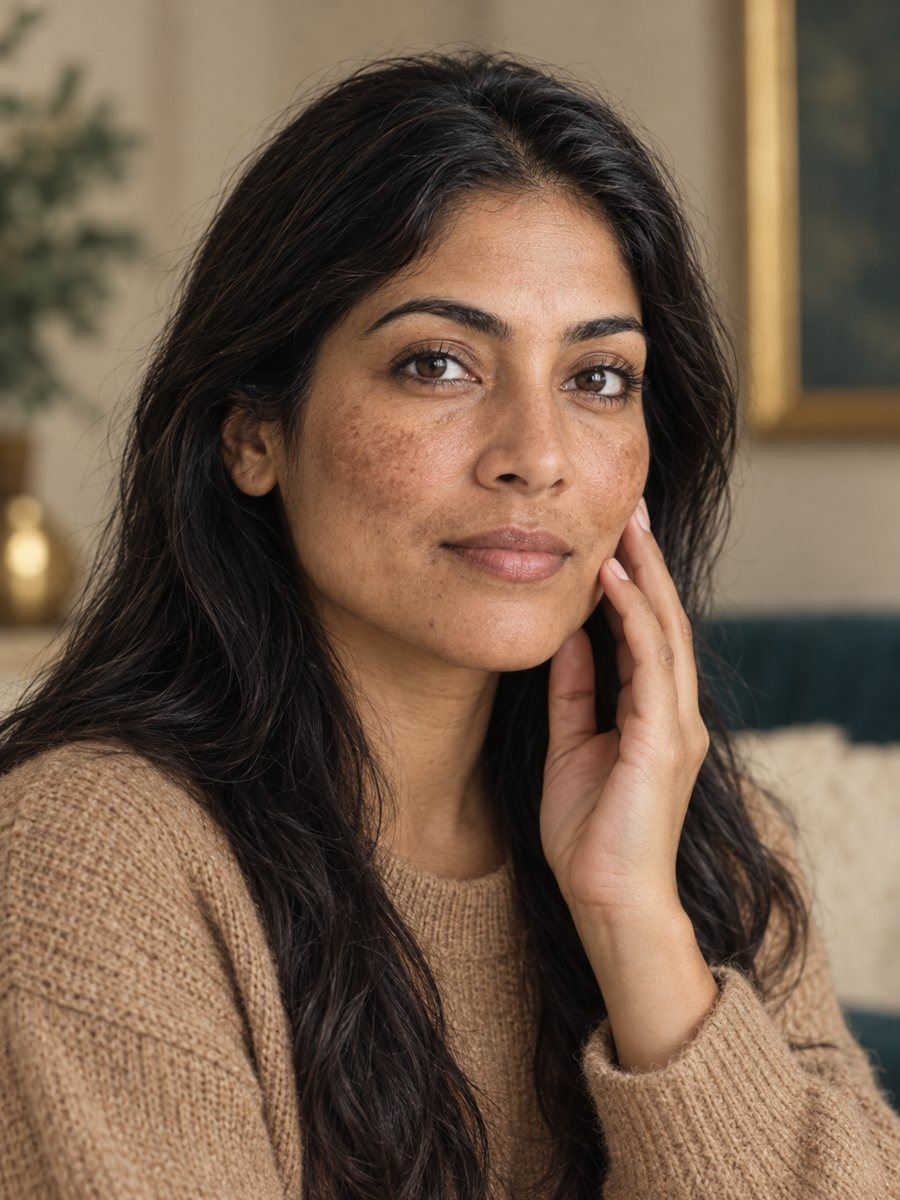
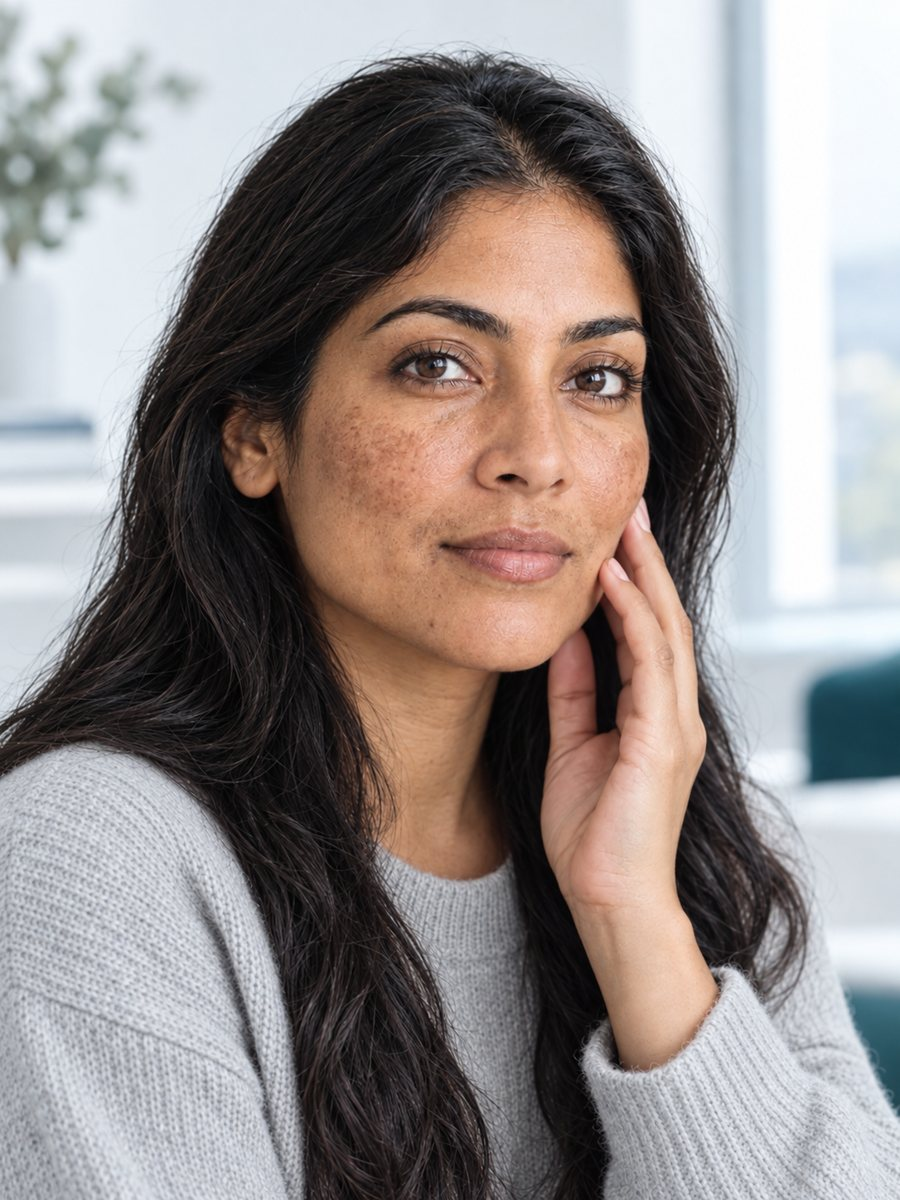
Homepage: clean white and teal palette, light hero, bright white-room photography

diff --git a/home-concern.css b/home-concern.css
@@ -1,3 +1,19 @@
+/* ── Clean palette (homepage, light theme) ───────────── */
+:root:not([data-theme="dark"]) {
+  --color-bg:           #FFFFFF;
+  --color-surface:      #FFFFFF;
+  --color-surface-2:    #F5F8F8;
+  --color-surface-teal: #F2F7F7;
+  --color-divider:      #E6ECEC;
+  --color-border:       #DFE6E6;
+  --color-text:         #142321;
+  --color-text-muted:   #5B6866;
+  --color-text-gold:    #0E6B68;
+  --color-gold:         #CFE6E3;
+  --color-gold-light:   #EAF4F3;
+  --color-gold-deep:    #0E6B68;
+}
+
 /* ============================================================
    RevelleCare — Concern-first homepage
    ============================================================ */
@@ -47,7 +63,7 @@
   align-items: center;
   overflow: hidden;
   isolation: isolate;
-  background: #2a2420;
+  background: #0F1E1D;
 }
 .cf-hero-img {
   position: absolute; inset: 0;
@@ -76,7 +92,7 @@
   color: #FDFCFA;
   max-width: 15ch;
 }
-.cf-hero-title em { font-style: italic; color: #E7DCC6; }
+.cf-hero-title em { font-style: italic; color: #FFFFFF; }
 .cf-hero-sub {
   margin-top: var(--space-6);
   max-width: 34rem;
@@ -86,11 +102,11 @@
 }
 .cf-hero-actions { display: flex; flex-wrap: wrap; gap: var(--space-4); margin-top: var(--space-10); }
 .cf-btn-light { background: #FDFCFA; color: #0E6B68; border: 1px solid #FDFCFA; }
-.cf-btn-light:hover { background: #EDE5D8; border-color: #EDE5D8; }
+.cf-btn-light:hover { background: #EAF4F3; border-color: #EAF4F3; }
 .cf-btn-ghost-light { background: transparent; color: #FDFCFA; border: 1px solid rgba(253,252,250,0.7); }
 .cf-btn-ghost-light:hover { background: rgba(253,252,250,0.12); }
-.cf-btn-gold { background: var(--color-gold); color: #1E2422; border: 1px solid var(--color-gold); }
-.cf-btn-gold:hover { background: #EDE5D8; }
+.cf-btn-gold { background: #FFFFFF; color: #0E6B68; border: 1px solid #FFFFFF; }
+.cf-btn-gold:hover { background: #EAF4F3; }
 
 /* ── Trust strip ──────────────────────────────────────── */
 .cf-trust { background: var(--color-surface-teal); border-bottom: 1px solid var(--color-border); }
@@ -185,7 +201,7 @@
 .cf-portal-inner { display: grid; grid-template-columns: 1fr 1fr; gap: clamp(var(--space-10), 6vw, var(--space-20)); align-items: stretch; max-width: 1120px; }
 .cf-portal-media {
   border-radius: var(--radius-xl); min-height: 520px; overflow: hidden;
-  background: linear-gradient(145deg, #E9DFD2 0%, #D9CBB8 55%, #C9B89A 100%);
+  background: linear-gradient(150deg, #F4F8F8 0%, #E4EFEE 60%, #CFE3E1 100%);
   display: grid; place-items: end center; padding-top: var(--space-10);
 }
 .cf-phone {
@@ -194,7 +210,7 @@
   box-shadow: 0 30px 60px rgba(30,36,34,.28); transform: translateY(4%);
 }
 .cf-phone-notch { position: absolute; top: 18px; left: 50%; transform: translateX(-50%); width: 34%; height: 22px; background: #1E2422; border-radius: 12px; z-index: 2; }
-.cf-phone-screen { background: #F8F7F4; height: 100%; border-radius: 30px 30px 0 0; padding: 50px 14px 14px; display: flex; flex-direction: column; gap: 12px; font-size: 11.5px; line-height: 1.45; color: #1E2422; overflow: hidden; }
+.cf-phone-screen { background: #FFFFFF; height: 100%; border-radius: 30px 30px 0 0; padding: 50px 14px 14px; display: flex; flex-direction: column; gap: 12px; font-size: 11.5px; line-height: 1.45; color: #1E2422; overflow: hidden; }
 .cf-phone-bar { text-align: center; font-weight: 600; font-size: 12px; padding-bottom: 8px; border-bottom: 1px solid #E3DED5; }
 .cf-msg { display: flex; gap: 8px; align-items: flex-start; }
 .cf-msg p { margin: 0; }
@@ -202,7 +218,7 @@
 .cf-msg--in > div { background: #fff; border: 1px solid #E3DED5; border-radius: 4px 12px 12px 12px; padding: 8px 10px; }
 .cf-msg--out { justify-content: flex-end; }
 .cf-msg--out p { background: #0E6B68; color: #fff; border-radius: 12px 4px 12px 12px; padding: 8px 10px; max-width: 80%; }
-.cf-msg-av { flex: none; width: 26px; height: 26px; border-radius: 50%; background: #C9B89A; color: #1E2422; display: grid; place-items: center; font-size: 9px; font-weight: 700; letter-spacing: .04em; }
+.cf-msg-av { flex: none; width: 26px; height: 26px; border-radius: 50%; background: #D4ECEB; color: #0E6B68; display: grid; place-items: center; font-size: 9px; font-weight: 700; letter-spacing: .04em; }
 .cf-phone-cta { margin-top: auto; background: #1E2422; color: #F8F7F4; text-align: center; font-size: 10px; letter-spacing: .14em; text-transform: uppercase; padding: 10px; border-radius: 6px; }
 .cf-portal-copy .cf-title { margin-bottom: var(--space-6); }
 .cf-portal-list { list-style: none; }
@@ -229,7 +245,7 @@
 .cf-compare-col--muted li::before { content: "–"; position: absolute; left: 0; color: var(--color-text-muted); }
 .cf-compare-col--brand { background: #0E6B68; color: #F8F7F4; }
 .cf-compare-col--brand h3 { color: #F8F7F4; }
-.cf-compare-col--brand li::before { content: "✓"; position: absolute; left: 0; color: #C9B89A; font-weight: 600; }
+.cf-compare-col--brand li::before { content: "✓"; position: absolute; left: 0; color: #A8DAD5; font-weight: 600; }
 
 /* ── Care team ────────────────────────────────────────── */
 .cf-team { background: var(--color-surface-teal); }
@@ -262,7 +278,7 @@
 .cf-collective-desc { margin: var(--space-5) auto 0; max-width: 520px; color: rgba(248,247,244,0.9); line-height: 1.65; }
 .cf-form { display: grid; gap: var(--space-4); max-width: 440px; margin: var(--space-8) auto 0; text-align: left; }
 .cf-field { display: grid; gap: var(--space-2); }
-.cf-field span { font-size: var(--text-xs); font-weight: 600; letter-spacing: 0.08em; text-transform: uppercase; color: #EDE5D8; }
+.cf-field span { font-size: var(--text-xs); font-weight: 600; letter-spacing: 0.08em; text-transform: uppercase; color: #D4ECEB; }
 .cf-field input, .cf-field select {
   font: inherit; font-size: var(--text-base);
   padding: 0.8rem 1rem; border-radius: var(--radius-md);
@@ -343,4 +359,26 @@
 }
 @media (prefers-reduced-motion: reduce) {
   .cf-card, .cf-card-media img, .cf-team-card { transition: none; }
+}
+
+/* ── Light, clean hero (light theme) ─────────────────── */
+:root:not([data-theme="dark"]) .cf-hero { background: #FFFFFF; }
+:root:not([data-theme="dark"]) .cf-hero-img { left: 36%; width: 64%; object-position: 50% 28%; }
+:root:not([data-theme="dark"]) .cf-hero-scrim {
+  background: linear-gradient(90deg, #FFFFFF 0%, #FFFFFF 36%, rgba(255,255,255,0.85) 41%, rgba(255,255,255,0) 54%);
+}
+:root:not([data-theme="dark"]) .cf-eyebrow { color: #0E6B68; }
+:root:not([data-theme="dark"]) .cf-hero-title { color: #142321; }
+:root:not([data-theme="dark"]) .cf-hero-title em { color: #0E6B68; }
+:root:not([data-theme="dark"]) .cf-hero-sub { color: #4A5856; }
+:root:not([data-theme="dark"]) .cf-hero .cf-btn-light { background: #0E6B68; color: #FFFFFF; border-color: #0E6B68; }
+:root:not([data-theme="dark"]) .cf-hero .cf-btn-light:hover { background: #0A5250; border-color: #0A5250; }
+:root:not([data-theme="dark"]) .cf-hero .cf-btn-ghost-light { color: #0E6B68; border-color: #0E6B68; }
+:root:not([data-theme="dark"]) .cf-hero .cf-btn-ghost-light:hover { background: #EAF4F3; }
+:root:not([data-theme="dark"]) .cf-trust { background: #F5F8F8; }
+@media (max-width: 900px) {
+  :root:not([data-theme="dark"]) .cf-hero { flex-direction: column; align-items: stretch; min-height: 0; }
+  :root:not([data-theme="dark"]) .cf-hero-img { position: relative; left: 0; width: 100%; height: 360px; object-position: 58% 25%; }
+  :root:not([data-theme="dark"]) .cf-hero-scrim { display: none; }
+  :root:not([data-theme="dark"]) .cf-hero-inner { padding-block: var(--space-10) var(--space-12); }
 }

diff --git a/index.html b/index.html
@@ -71,7 +71,7 @@
 
     <!-- ═══ HERO — concern-first ═══ -->
     <section class="cf-hero" aria-labelledby="cf-hero-title">
-      <img class="cf-hero-img" src="assets/images/home/hero.jpg" alt="A woman in her fifties with silver-streaked hair, touching her cheek and smiling softly by a window" width="1920" height="1280" fetchpriority="high" />
+      <img class="cf-hero-img" src="assets/images/home/hero.jpg" alt="A woman in her fifties with silver-streaked hair, touching her cheek and smiling softly in a bright white room" width="1920" height="1280" fetchpriority="high" />
       <div class="cf-hero-scrim" aria-hidden="true"></div>
       <div class="container cf-hero-inner">
         <p class="cf-eyebrow">Launching Q1 2027 · Ontario &amp; British Columbia</p>
